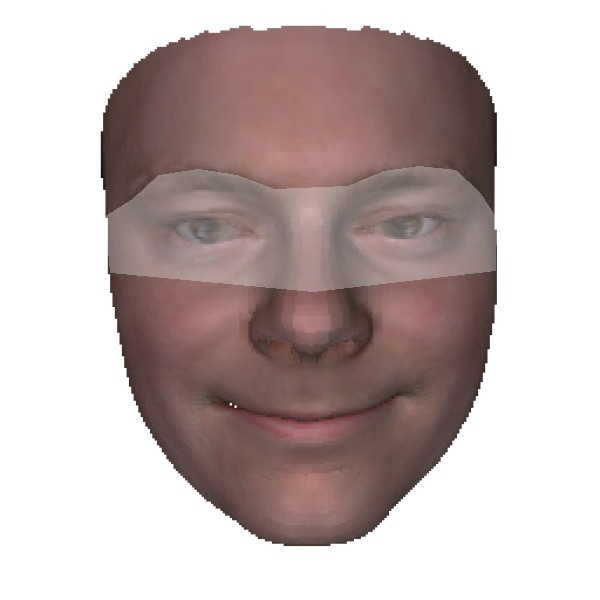
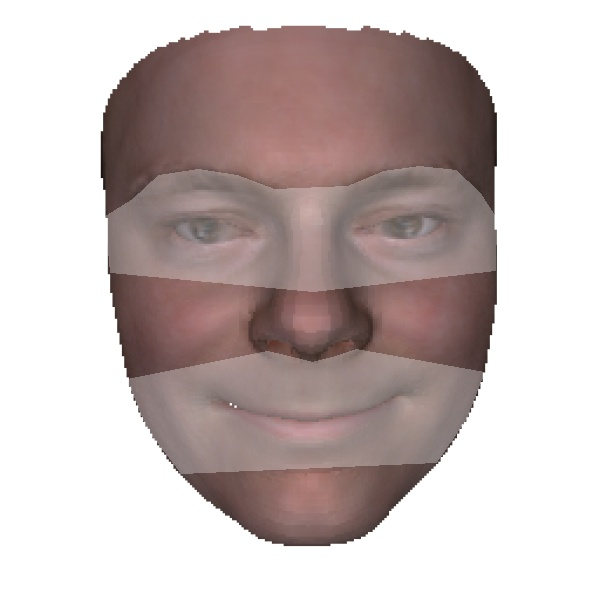
testes

Changed region(s): [[0.21, 0.57, 0.81, 0.81]]

diff --git a/src/runDetailsFace.py b/src/runDetailsFace.py
@@ -10,18 +10,13 @@ from collections import OrderedDict
 
 from PIL import Image, ImageDraw
 
-def drawRegiona(imagem, valores, label):
+def drawRegiona(imagem, valores):
 
     nome = imagem.split('.')
     
     listas = ['eye', 'month', 'nose', 'queixo']
-
-    CHEEK_IDXS = OrderedDict([valores])
-
-    detector    = dlib.get_frontal_face_detector()
-    predictor   = dlib.shape_predictor("./model/shape_predictor_68_face_landmarks.dat")
-
-    img = cv2.imread('./img/' + imagem)
+    
+    img = cv2.imread('./img/cg/' + imagem)
     img = imutils.resize(img, width=600)
 
     # Create output image (untranslated)
@@ -31,34 +26,44 @@ def drawRegiona(imagem, valores, label):
         outClean = imagedet.copy()
     else:
         outClean = img.copy()
-
-    gray = cv2.cvtColor(img, cv2.COLOR_BGR2GRAY)
-    mask = np.zeros_like(img, np.uint8)
-
-    detections = detector(gray, 0)
-    for k,d in enumerate(detections):
         
-        shape = predictor(gray, d)
-        for (_, name) in enumerate(CHEEK_IDXS.keys()):
+    
+    for val in valores:
+        
+        CHEEK_IDXS = OrderedDict([val])
+
+        detector    = dlib.get_frontal_face_detector()
+        predictor   = dlib.shape_predictor("./model/shape_predictor_68_face_landmarks.dat")        
+
+        gray = cv2.cvtColor(img, cv2.COLOR_BGR2GRAY)
+        mask = np.zeros_like(img, np.uint8)
+
+        detections = detector(gray, 0)
+        for k,d in enumerate(detections):
             
-            pts = np.zeros((len(CHEEK_IDXS[name]), 2), np.int32) 
-            
-            for i,j in enumerate(CHEEK_IDXS[name]): 
-                pts[i] = [shape.part(j).x, shape.part(j).y]            
-            
-            # Create mask that defines the polygon of points
-            # Red
-            # cv2.fillPoly(mask, [pts], (0, 0, 255))
-            # Blue
-            # cv2.fillPoly(mask, [pts], (255, 51, 51))
-            # White
-            cv2.fillPoly(mask, [pts], (255, 255, 255))
-            
-            alpha = 0.7
-            mascara = mask.astype(bool)
-            outClean[mascara] = cv2.addWeighted(img, alpha, mask, 1 - alpha, 0)[mascara]
-            
-            cv2.imwrite('./img/' + nome[0] + '_detail.jpg', outClean)
+            shape = predictor(gray, d)
+            for (_, name) in enumerate(CHEEK_IDXS.keys()):
+                
+                pts = np.zeros((len(CHEEK_IDXS[name]), 2), np.int32) 
+                
+                for i,j in enumerate(CHEEK_IDXS[name]): 
+                    pts[i] = [shape.part(j).x, shape.part(j).y]            
+                
+                # Create mask that defines the polygon of points
+                # Red
+                # cv2.fillPoly(mask, [pts], (0, 0, 255))
+                # Blue
+                # cv2.fillPoly(mask, [pts], (255, 51, 51))
+                # White
+                cv2.fillPoly(mask, [pts], (255, 255, 255))
+                
+                alpha = 0.7
+                mascara = mask.astype(bool)
+                outClean[mascara] = cv2.addWeighted(img, alpha, mask, 1 - alpha, 0)[mascara]
+                
+                cv2.imwrite('./img/annotated/' + nome[0] + '_detail.jpg', outClean)
+                
+        # break
 
 if __name__ == '__main__':
 
@@ -71,16 +76,8 @@ if __name__ == '__main__':
 
     lista = os.listdir('./img/cg/')
     
-    for i, j in enumerate(parts):
+    for l in lista:
 
-        if 'eyes' in j[0]: 
-
-            for l in lista:
-
-                if 'detail' not in l and 'mesh' in l:
-
-                    drawRegiona(l, j, i)
-                
-                break
-                    
-            break
+        drawRegiona(l, [parts[0], parts[1]])
+        
+        # break
